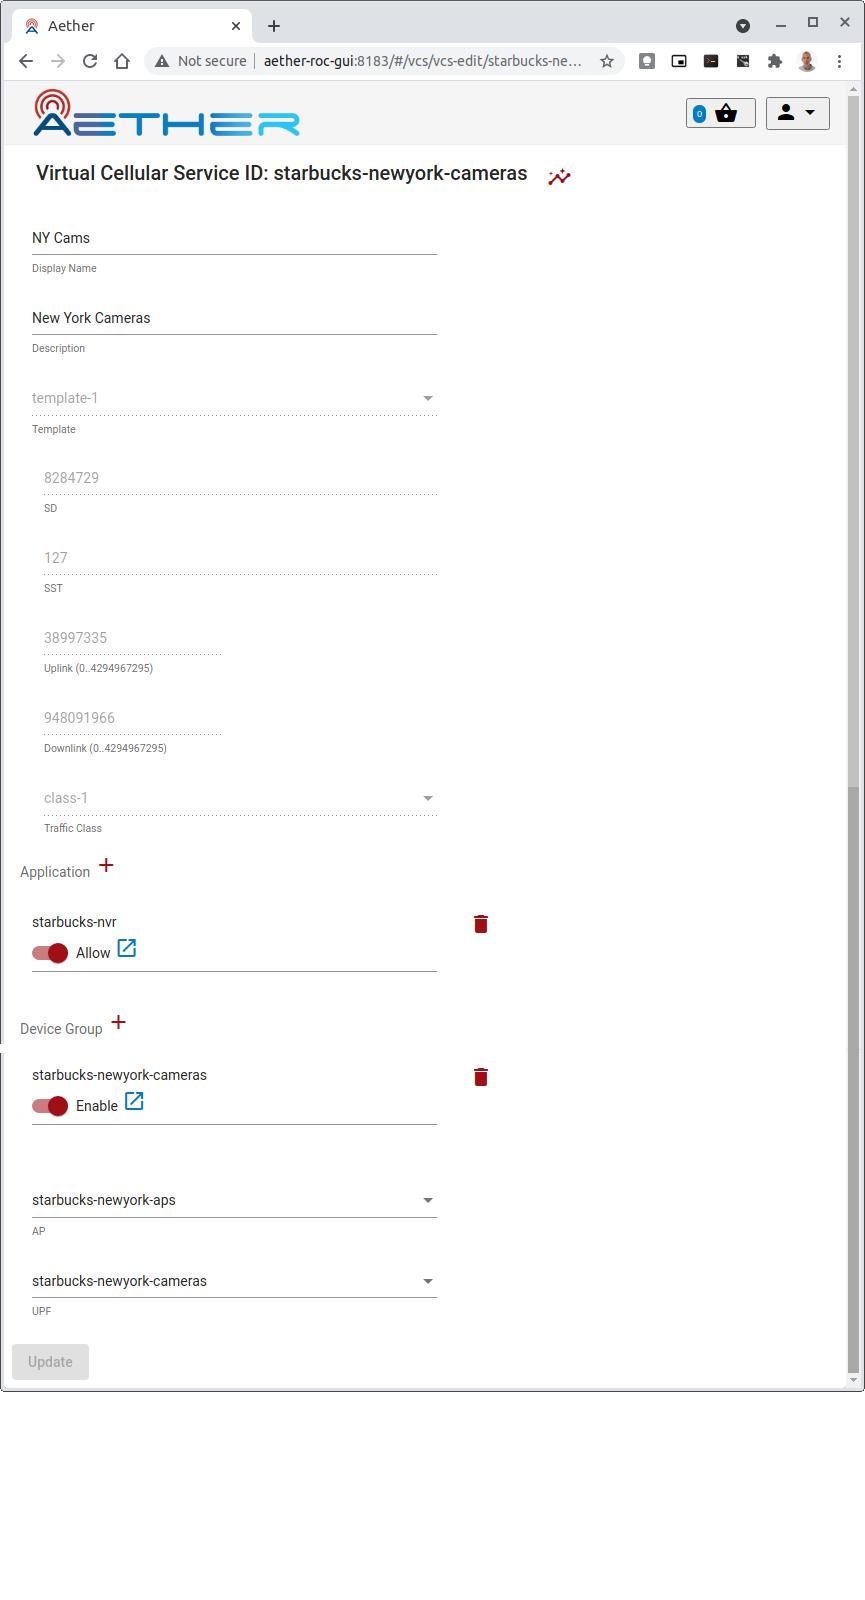
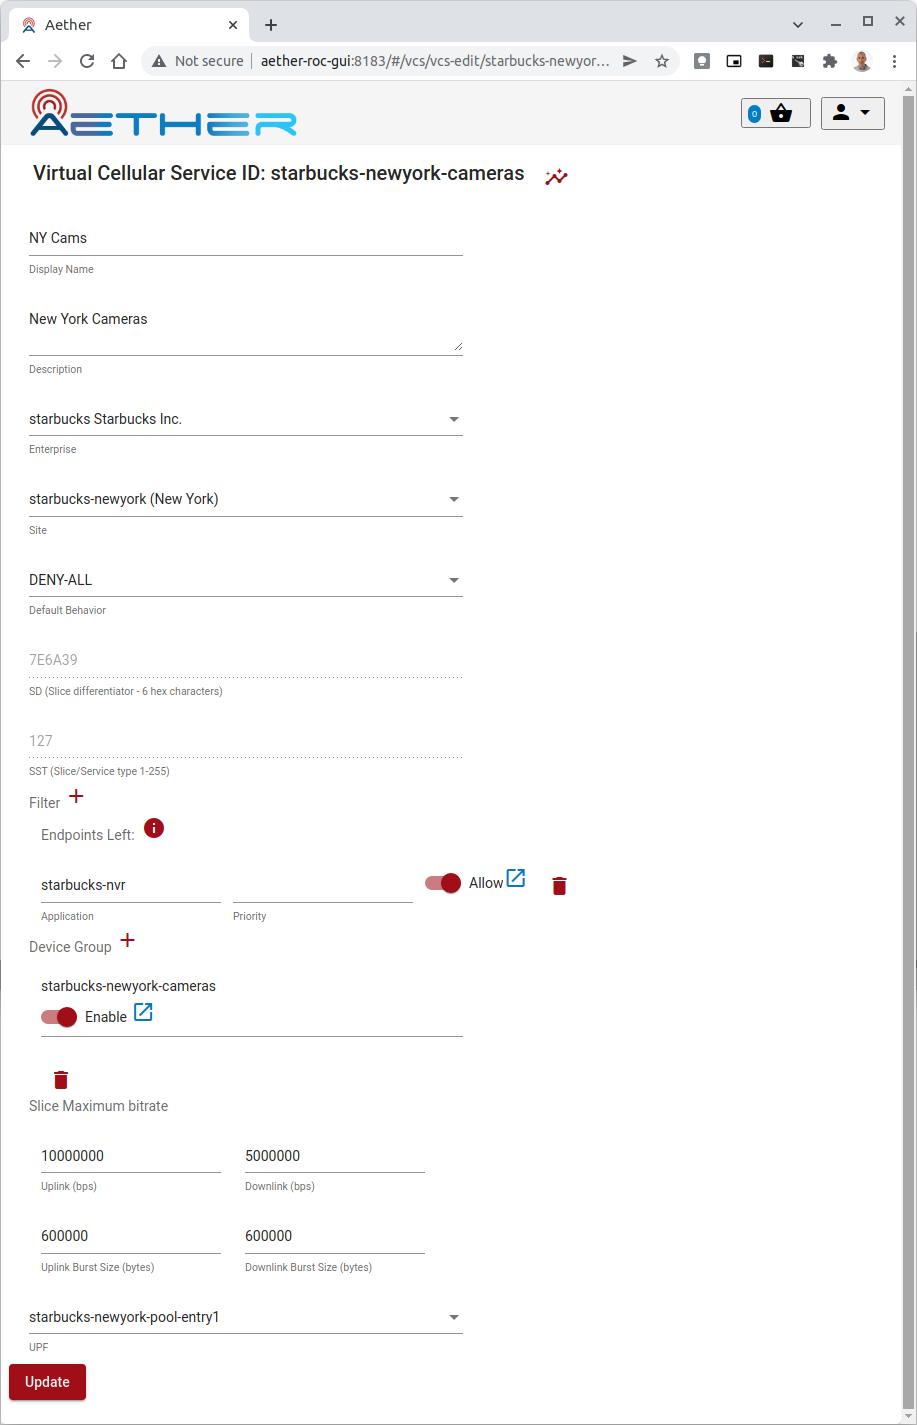
Aether-3028 updating screenshots in Operations

diff --git a/operations/subscriber.rst b/operations/subscriber.rst
@@ -6,7 +6,7 @@ Subscriber and Connectivity Management
 ======================================
 
 Subscriber management includes workflows associated with provisioning new subscribers, removing
-existing subscribers, and associating subscribers with virtual connectivity services.
+existing subscribers, and associating subscribers with Virtual Connectivity Services (VCS).
 
 .. note::
     This section refers to a fully installed ROC GUI, properly secured and with Enterprises, Connectivity Services
@@ -72,17 +72,15 @@ the UE's IMSI to the DeviceGroup.
 
 The Site details can be seen by navigating to the Site list view.
 
-.. image:: images/aether-roc-gui-sites-list.png
-    :width: 755
-    :alt: Sites List View in Aether ROC GUI showing site details
+|SITE-LIST|
 
 In the ROC GUI, navigate to the Device Groups list view, to see the list of
 Device Groups and their association to Sites.
 
-    |DEVICEGROUP-LIST|
+|DEVICEGROUP-LIST|
 
-In the DeviceGroup *New York POS* example above an IMSI Range **store** of
-**70-73** will mean the set of IMSI IDs (when the *format* specifier of the
+In the DeviceGroup *New York POS* example above an UE ID Range **store** of
+**70-73** will mean the set of UE IDs (when the *format* specifier of the
 *starbucks-newyork* Site are applied to its *MCC*, *MNC* and *Enterprise*) of
 
 * 021032002000070 (021-032-002-000070)
@@ -97,17 +95,19 @@ In the DeviceGroup *New York POS* example above an IMSI Range **store** of
 
 Editing
 *******
-Edit the DeviceGroup by clicking on the Edit icon, and in the Edit page,
-adjust an existing range or create a new range (by clicking on the `+` icon).
+Edit the DeviceGroup by clicking on the Edit icon, and in the List page,
+adjust an existing UE ID range or create a new range (by clicking on the `+` icon).
 
-    |DEVICEGROUP-EDIT|
+|DEVICEGROUP-EDIT|
 
 The following restrictions apply
 
-#. The IMSI ID specified in "from" or "to" is relative to *MCC*, *MNC* and *Enterprise* of the Site.
+#. The "end" value must be greater than or equal to the "start" value. If the 2 are equal then this constitutes
+   a range of size 1.
+#. The IMSI ID specified in "start" or "end" is relative to *MCC*, *MNC* and *Enterprise* of the Site.
 #. The maximum value of an IMSI ID is defined by the number of **S** characters in the `format` specifier of the Site.
 #. IMSI Ranges are contiguous ranges of IMSI IDs. To accommodate non contiguous IMSI IDs, add extra Ranges.
-#. IMSI Ranges can have a maximum span of 100 between "from" and "to" IMSI IDs. Break bigger spans in to many ranges.
+#. IMSI Ranges can have a maximum span of 100 between "start" and "end" IMSI IDs. Break bigger spans in to many ranges.
 #. IMSI ranges within a DeviceGroup cannot not overlap.
 
 When the entries on the DeviceGroup edit page are valid the **Update** will become available
@@ -125,14 +125,21 @@ Committing
 **********
 To commit the changes
 
-#. click on the **Basket** icon (2nd icon from top right) to see the Basket view
-#. inspect the changes to be committed (optional)
-#. click **commit** to perform the commit
-#. observe the response that's temporarily displayed that shows the success or failure of the commit
+#. Click on the **Basket** icon (2nd icon from top right) to see the Basket view
+#. Inspect the changes to be committed (optional)
+#. Click **Commit** to perform the commit
+#. Observe the response that's temporarily displayed that shows the success or failure of the commit
 
-.. image:: images/aether-roc-gui-basket-view-new-range.png
-    :width: 635
-    :alt: Basket View with some changes ready to be committed
+|BASKETVIEW-NEWRANGE|
+
+History
+*******
+If you are an Aether ROC Administrator, you will be able to see the History of changes, from the *Basket View* by
+clicking on the **History** button.
+
+|BASKETVIEW-HISTORY|
+
+.. note:: The *History* button will only be visible if you are in the **AetherROCAdmin** group.
 
 Remove Connectivity Service from an existing UE
 -----------------------------------------------
@@ -146,9 +153,10 @@ then it might be necessary to split that range into multiple ranges.
     click the *trash can* icon next to that *IMSI Range* and
     use the *+* icon to add new Ranges for the remaining IMSI IDs.
 * Alternatively if the UE to be removed has an IMSI ID at the start or end of an existing IMSI Range:
-    then adjust the *from* or *to* value accordingly.
+    then adjust the **start** or **end** value accordingly.
+* Once finished editing, proceed to the *Basket View*, inspect the changes and Commit.
 
-    |DEVICEGROUP-EDIT|
+|DEVICEGROUP-EDIT|
 
 .. note::
     The UE may continue to have connectivity until its next detach/attach cycle.
@@ -158,20 +166,18 @@ Create a new DeviceGroup
 
 DeviceGroups allow UEs to be grouped and configured together. Each site comes preconfigured with
 a default DeviceGroup, but additional DeviceGroups may be created. For example, placing all IP
-Cameras in an my-site-ip-cameras DeviceGroup would allow you to group IP Cameras together.
+Cameras in an "my-site-ip-cameras" DeviceGroup would allow you to group IP Cameras together.
 
 To add a DeviceGroup, navigate to the list of DeviceGroups and click `Add` in the upper right.
 (This may be grayed out if you do not have appropriate permissions).
 
 * Specify a unique **id** for the DeviceGroup
     40 characters max and only alphanumeric and `-`, `_` and `.` allowed
-* Choose a *Site* from the list of preconfigured list
+* Choose a *Site* from the preconfigured list
     It will not be possible to add IMSI Ranges until the Site is chosen
-* IMSI Ranges can be added at this stage or later
+* UE ID Ranges can be added at this stage or later
 
-.. image:: images/aether-roc-gui-devicegroup-add.png
-    :width: 490
-    :alt: Adding a new Device Group requires an *id* and choosing a Site
+|DEVICEGROUP-ADD|
 
 Delete a DeviceGroup
 --------------------
@@ -187,7 +193,7 @@ A DeviceGroup can be deleted from the DeviceGroup list view, by clicking the *tr
 next to it. The deletion is added to the **Basket** directly. Navigate to the *Basket View*
 to commit the change.
 
-    |DEVICEGROUP-LIST|
+|DEVICEGROUP-LIST|
 
 
 Add a DeviceGroup to a Virtual Connectivity Service (VCS)
@@ -198,7 +204,7 @@ a Virtual Connectivity Service (VCS).
 
 Navigate to the *VCS* list view to see the list of VCS's and their associations to DeviceGroups.
 
-    |VCS-LIST|
+|VCS-LIST|
 
 To edit a *VCS* click on the *edit* button next to it in this list.
 
@@ -207,12 +213,10 @@ DeviceGroups can be associated with it.
 
 * Click the *trash can* symbol to remove a DeviceGroup from the VCS
 * Click the *+* icon to add a DeviceGroup
-* Click the *Allow* slider to Allow or Disallow the DeviceGroup
-    This is a way of disabling or reenabling the DeviceGroup within a VCS without having to remove it
+* Click the *Enable* slider to Enable or Disable the DeviceGroup
+   * This is a way of disabling or reenabling the DeviceGroup within a VCS without having to remove it
 
-.. image:: images/aether-roc-gui-vcs-edit.png
-    :width: 562
-    :alt: VCS Edit View in Aether ROC GUI showing DeviceGroup association editing
+|VCS-EDIT|
 
 Remove a DeviceGroup from a Virtual Connectivity Service (VCS)
 --------------------------------------------------------------
@@ -258,14 +262,34 @@ The per UE Monitor panel contains:
     :width: 28
     :alt: Monitor icon
 
+.. |DEVICEGROUP-ADD| image:: images/aether-roc-gui-devicegroup-add.png
+    :width: 490
+    :alt: Adding a new Device Group requires an *id* and choosing a Site
+
 .. |DEVICEGROUP-LIST| image:: images/aether-roc-gui-devicegroups-list.png
-    :width: 755
+    :width: 1000
     :alt: Device Groups List View in Aether ROC GUI showing Site association and IMSI Range of all DeviceGroups
 
 .. |DEVICEGROUP-EDIT| image:: images/aether-roc-gui-devicegroup-edit.png
-    :width: 755
+    :width: 700
     :alt: Device Groups Edit View in Aether ROC GUI showing IMSI Range
 
 .. |VCS-LIST| image:: images/aether-roc-gui-vcs-list.png
     :width: 920
     :alt: VCS List View in Aether ROC GUI showing DeviceGroup association
+
+.. |VCS-EDIT| image:: images/aether-roc-gui-vcs-edit.png
+    :width: 700
+    :alt: VCS Edit View in Aether ROC GUI showing DeviceGroup association editing
+
+.. |BASKETVIEW-NEWRANGE| image:: images/aether-roc-gui-basket-view-new-range.png
+    :width: 635
+    :alt: Basket View with some changes ready to be committed
+
+.. |BASKETVIEW-HISTORY| image:: images/aether-roc-gui-basket-view-history.png
+    :width: 800
+    :alt: Basket View with history of last changes
+
+.. |SITE-LIST| image:: images/aether-roc-gui-sites-list.png
+    :width: 755
+    :alt: Sites List View in Aether ROC GUI showing site details

diff --git a/operations/vcs.rst b/operations/vcs.rst
@@ -10,18 +10,19 @@ QOS parameters.
 
 To define a VCS requires it to be associated with:
 
-* one or more **Application**
+* an Enterprise
+* a Site
+* one or more **Filter** (Application)
 * one or more **DeviceGroup**
-* an **AccessPointList**
 * a **UPF**
-* a **TrafficClass**
 
 and must also be created with attributes like:
 
 * **SD** (slice differentiator)
 * **SST** (slice/service type)
-* **Uplink** (data rate in Mbps)
-* **Downlink** (data rate in Mbps)
+* **Default Behavior** (for Application Filtering)
+* **Uplink** (data rate in bps)
+* **Downlink** (data rate in bps)
 
 Provisioning a new VCS
 ----------------------
@@ -37,25 +38,29 @@ to configure DeviceGroups.
 
 To add a new VCS, click the **Add** button in the VCS List View.
 
-    |VCS-LIST|
+|VCS-LIST|
 
 In the resulting VCS edit page:
 
-#. enter a VCS ID (this must be unique across the whole system).
-#. enter a Display Name (optional).
-#. enter a Description (optional).
+#. Enter a VCS ID (this must be unique across the whole system).
+#. Enter a Display Name (optional).
+#. Enter a Description (optional).
+#. Choose an Enterprise (may already have been selected)
+#. Choose a Site
 #. Choose a template
 
     * this will copy over values from that template, which may be edited individually at this create stage
     * they will not be editable afterwards.
-#. Choose an *Access Point List* from the drop down list.
+#. Accept the Default Behavior, SD and SST, and Uplink and Downlink values or change them.
 #. Choose a *UPF* from the drop down list.
+
+    * UPFs will previously have been added to a pool - those remaining unused will appear for selection.
 
 .. image:: images/aether-roc-gui-add-vcs.png
     :width: 500
     :alt: VCS Edit page adding a new VCS
 
-One or more Applications and or DeviceGroups can be associated with the VCS at this
+One or more Filters (Applications) and/or DeviceGroups can be associated with the VCS at this
 stage or later, by clicking on the *+* icon.
 
 When chosen, they appear as a list in the VCS edit page, and are automatically enabled/allowed:
@@ -72,24 +77,23 @@ Editing an existing VCS
 -----------------------
 When editing an existing VCS, it will not be possible to change:
 
-* the **id**
-* the **template** or any of the parameters beneath it
+* The **id**.
+* The **template** or the *SD* or *SST* parameters beneath it.
 
-Existing *Applications* or *DeviceGroups* can be removed by clicking the *trash can* icon next to it.
+Existing *Filters* or *DeviceGroups* can be removed by clicking the *trash can* icon next to it.
 
-Alternatively existing *Applications* or *DeviceGroups* can be *disabled/disallowed* by clicking the slider
+Alternatively existing *Filters* or *DeviceGroups* can be *disabled/disallowed* by clicking the slider
 next to it. This will have the same effect as disabling it.
 
-If one of the *DeviceGroup*s or *Application*s, *Access Point List*, *Traffic Class* or *UPF*
-itself is modified, then the changes on the VCS will take effect whenever changes to those
-objects are committed.
+.. note:: The *DeviceGroup* or *Filter* and *UPF* here are *references*. If the underlying object is modified, then
+    the changes on the VCS will take effect whenever changes to those objects are committed.
 
 Removing a VCS
 --------------
 Removing a VCS can be achieved by clicking the *trash can* icon next to the VCS in the
 VCS List page
 
-   |VCS-LIST|
+|VCS-LIST|
 
 Monitoring a VCS
 ----------------
@@ -102,17 +106,10 @@ The performance of a VCS can be monitored in many ways, by clicking its |monitor
 
 The *monitor* page itself shows:
 
-* A stacked bar graph of the Connectivity count of UEs over the last 15 minutes
-
-    * This shows the count of UE in the 3 different states - Active, Inactive and Idle
-* A line graph of the Throughput, Latency and Jitter of the VCS over the last 15 minutes
-* The live Throughput, Latency and Jitter values
+* A link to the Monitoring page of each Device Group. See :ref:`monitor_device_group`.
 * Information panels for each sub-object of the VCS
 
     * Clicking on the down arrow expands each panel
-
-The DeviceGroup(s) associated with the VCS has itself a |monitor| button that allows
-monitoring of each DeviceGroup. See :ref:`monitor_device_group`.
 
 .. image:: images/aether-roc-vcs-monitor.png
     :width: 920
